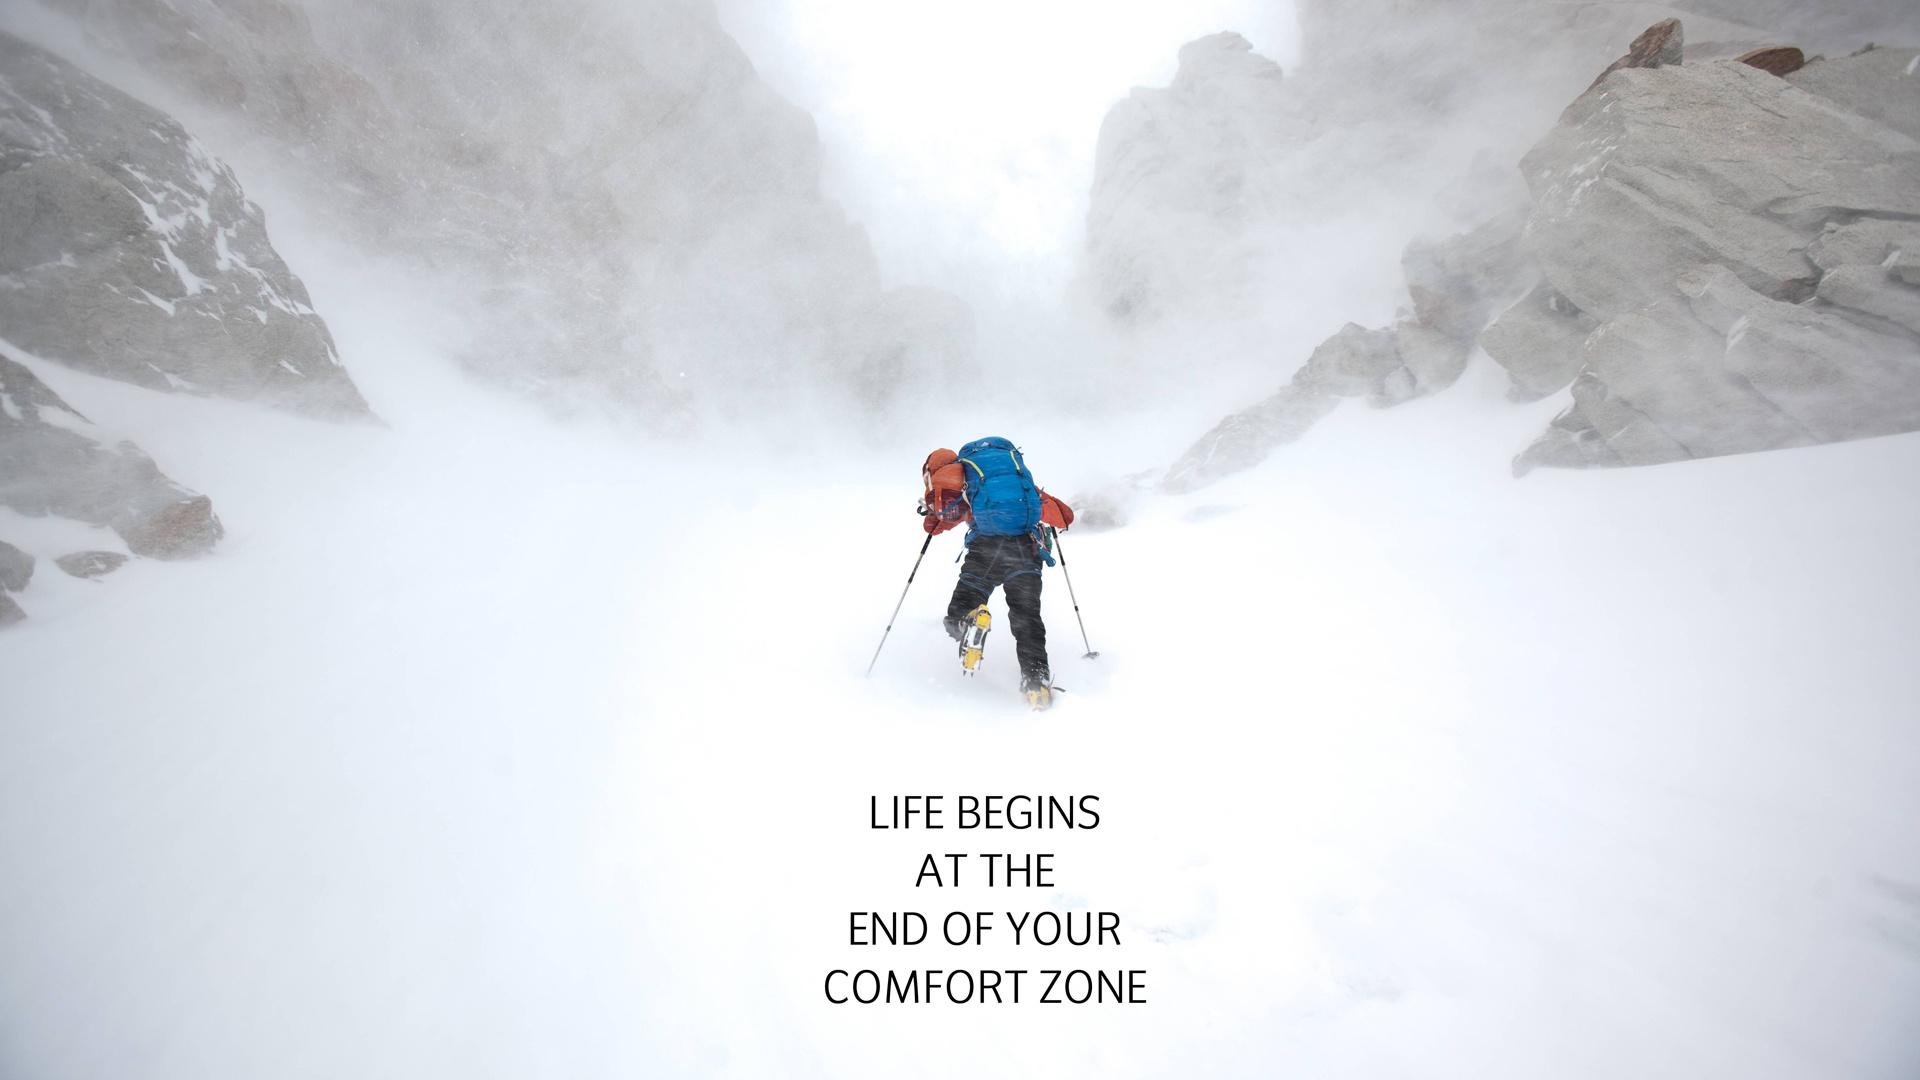
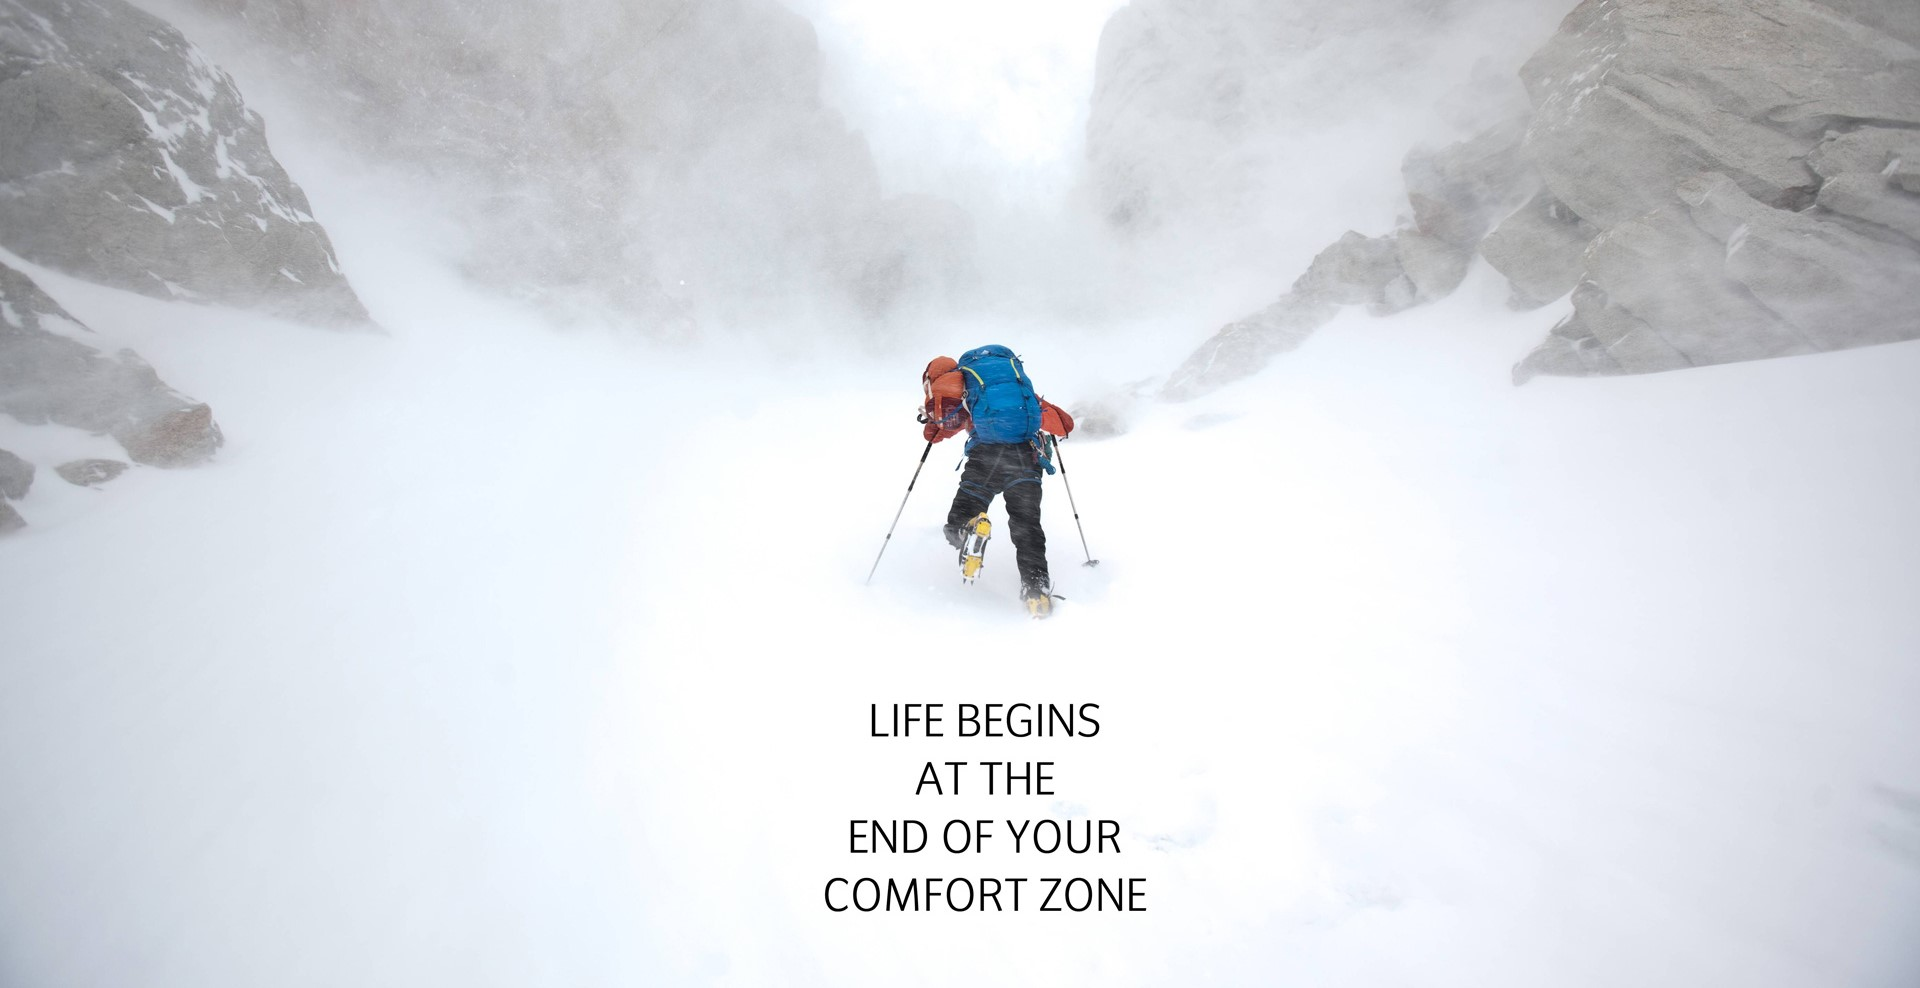
Site updated: 2018-11-29 19:19:28

diff --git a/css/main.css b/css/main.css
@@ -2016,7 +2016,7 @@ pre .javascript .function {
   width: 4px;
   height: 4px;
   border-radius: 50%;
-  background: #b4ffb6;
+  background: #53f;
 }
 .links-of-blogroll {
   font-size: 13px;
@@ -3314,7 +3314,7 @@ ul.breadcrumb li+li:last-child {
   }
 }
 body {
-  background: url("/images/bg.png");
+  background: url("/images/bg.jpg");
   background-repeat: no-repeat;
   background-attachment: fixed;
   background-position: 50% 50%;
